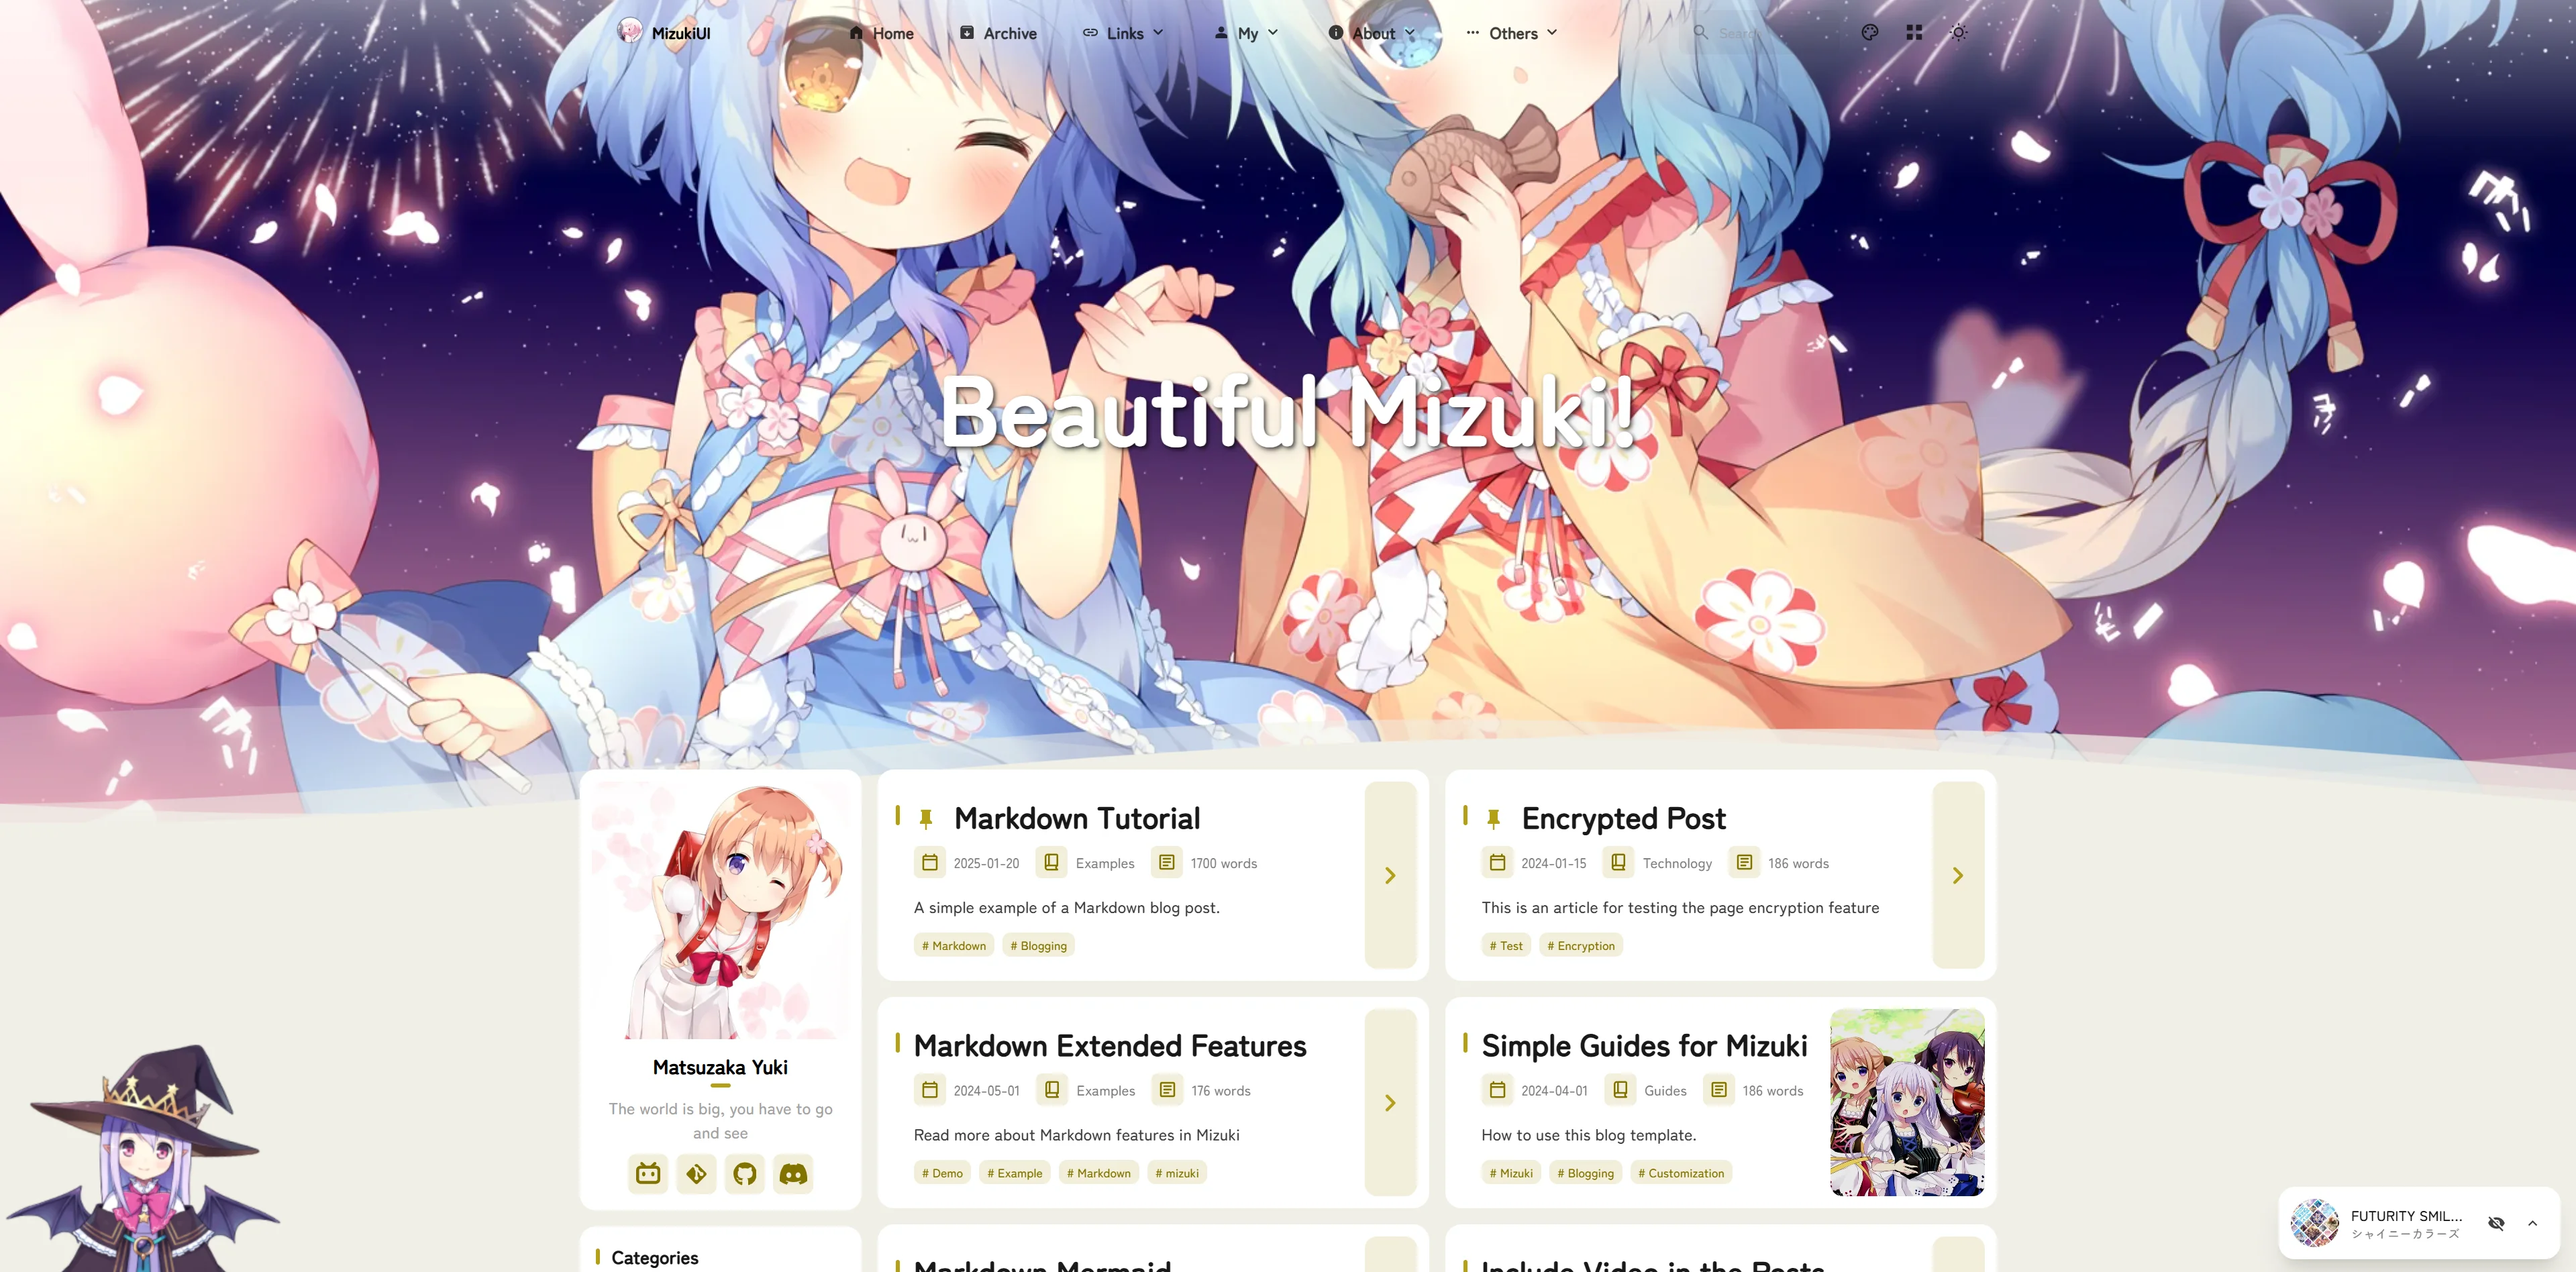
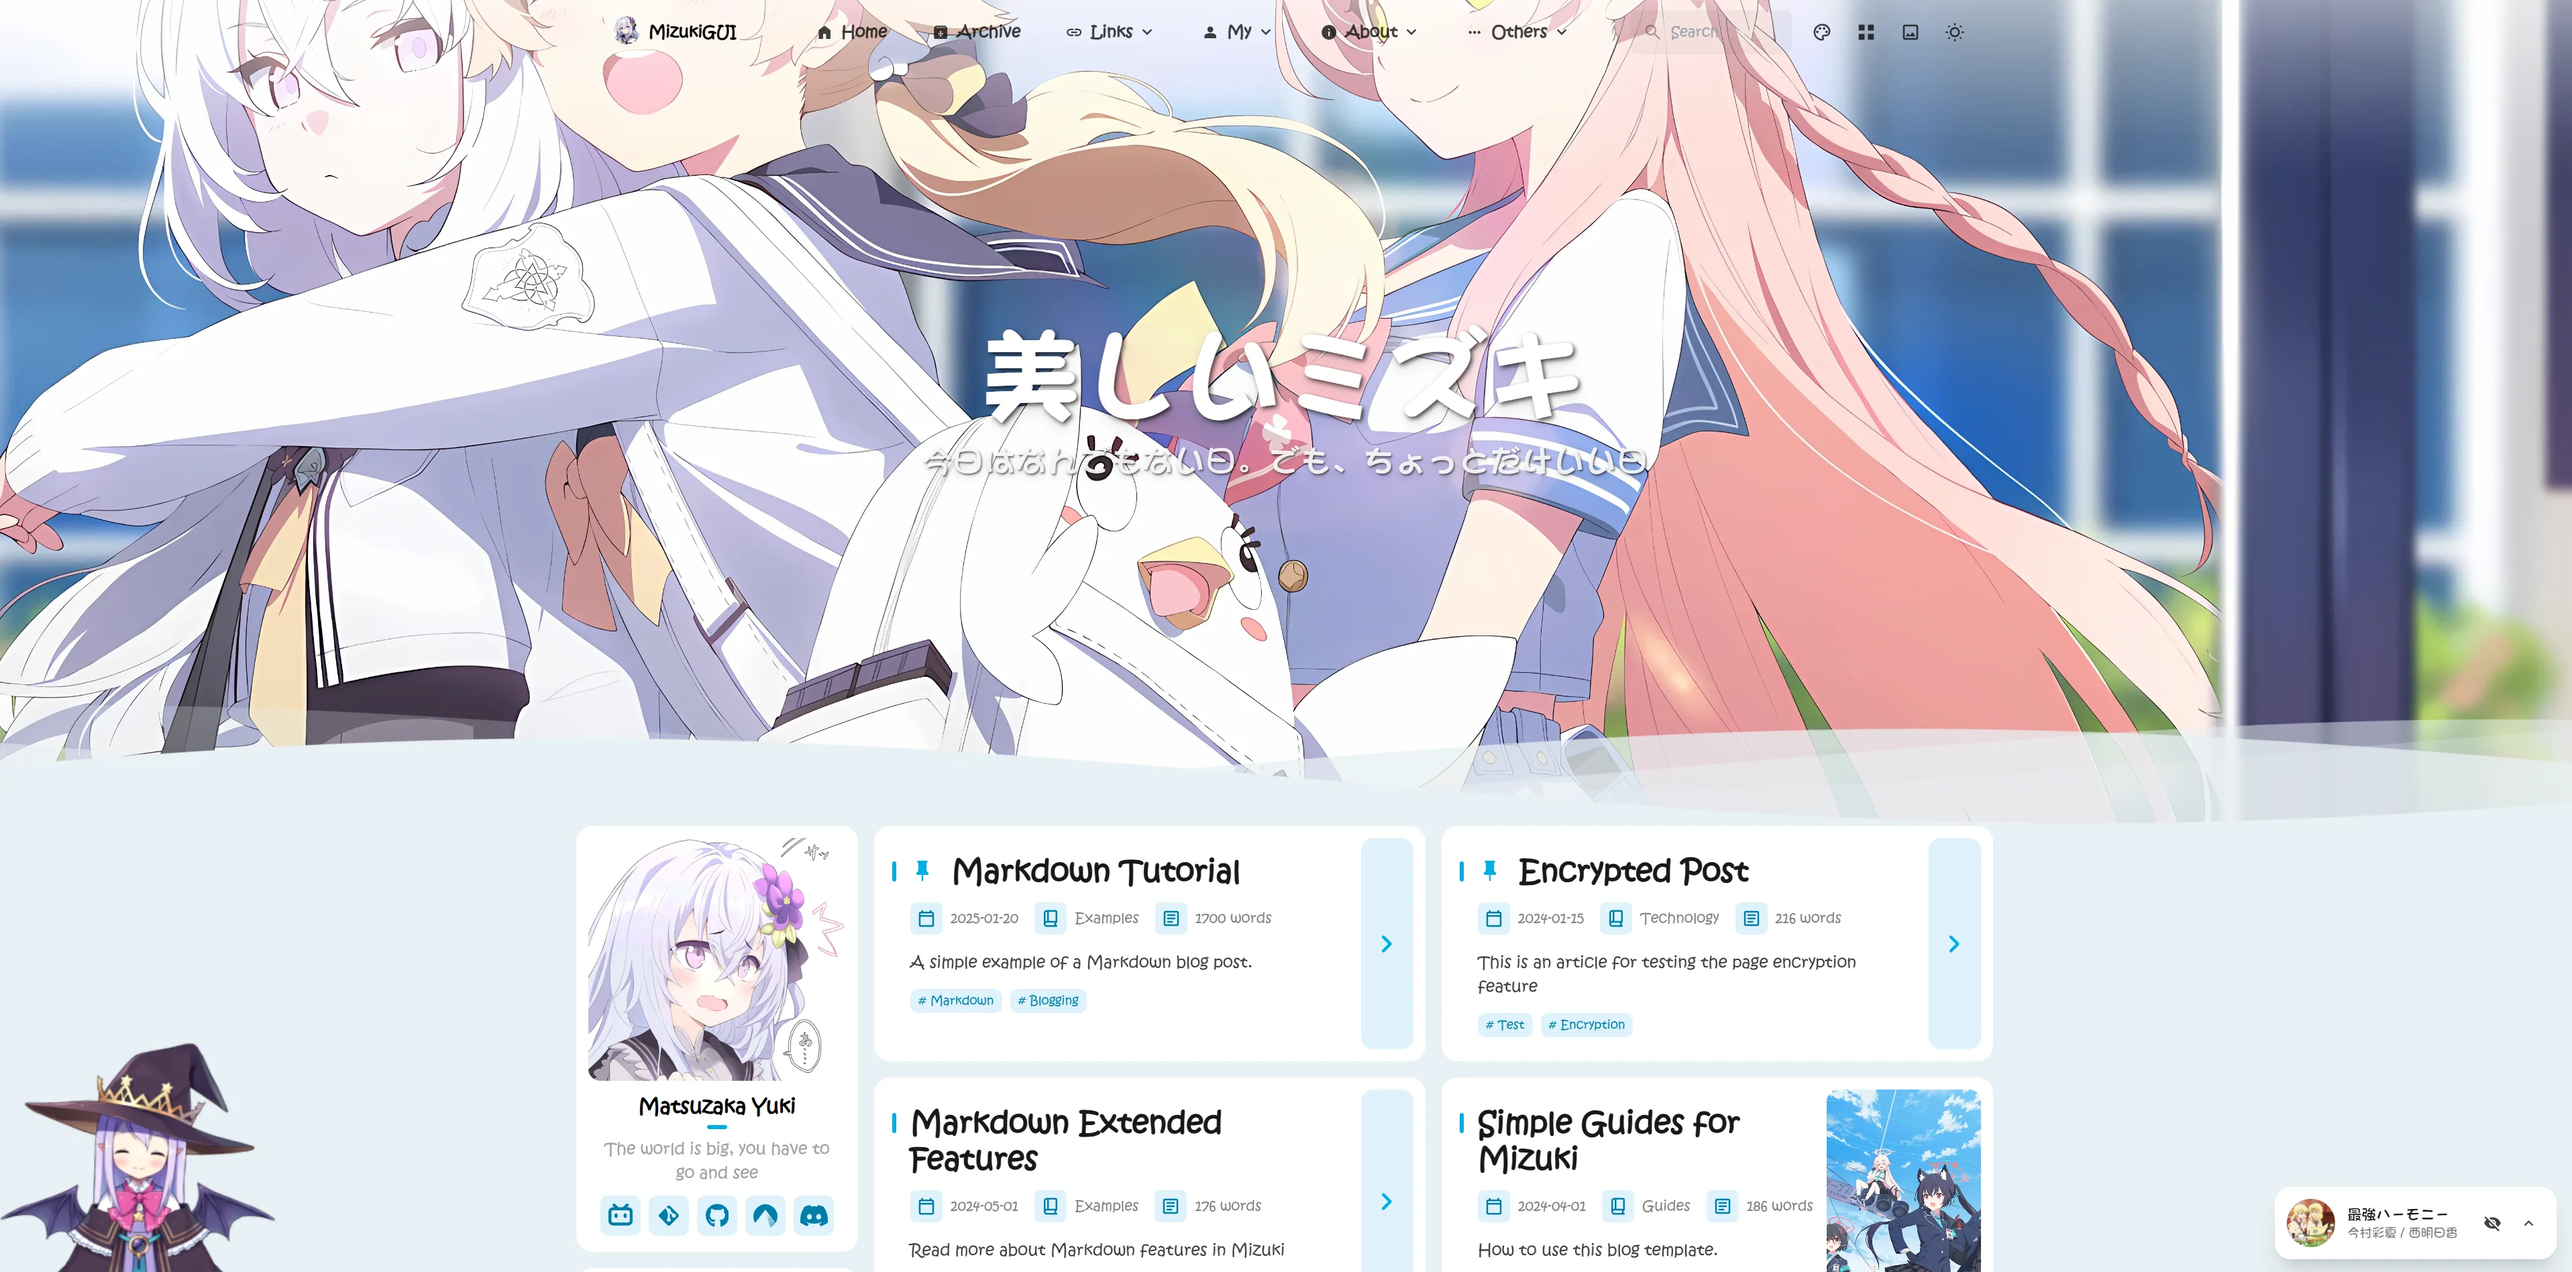
修复了一些设计bug

diff --git a/src/config.ts b/src/config.ts
@@ -18,18 +18,18 @@ import { LinkPreset } from "./types/config";
 
 // 定义站点语言
 const SITE_LANG = "en"; // 语言代码，例如：'en', 'zh_CN', 'ja' 等。
-const SITE_TIMEZONE =8;//设置你的网站时区 from -12 to 12 default in UTC+8
+const SITE_TIMEZONE = 8; //设置你的网站时区 from -12 to 12 default in UTC+8
 export const siteConfig: SiteConfig = {
 	title: "Mizuki",
 	subtitle: "One demo website",
 	siteURL: "https://mizuki.mysqil.com/", // 请替换为你的站点URL，以斜杠结尾
 
 	timeZone: SITE_TIMEZONE,
-	
+
 	lang: SITE_LANG,
 
 	themeColor: {
-		hue: 35, // 主题色的默认色相，范围从 0 到 360。例如：红色：0，青色：200，蓝绿色：250，粉色：345
+		hue: 230, // 主题色的默认色相，范围从 0 到 360。例如：红色：0，青色：200，蓝绿色：250，粉色：345
 		fixed: false, // 对访问者隐藏主题色选择器
 	},
 
@@ -47,7 +47,7 @@ export const siteConfig: SiteConfig = {
 	// 顶栏标题配置
 	navbarTitle: {
 		// 顶栏标题文本
-		text: "MizukiUI",
+		text: "MizukiGUI",
 		// 顶栏标题图标路径，默认使用 public/assets/home/home.png
 		icon: "assets/home/home.png",
 	},
@@ -90,24 +90,16 @@ export const siteConfig: SiteConfig = {
 		// 支持单张图片或图片数组，当数组长度 > 1 时自动启用轮播
 		src: {
 			desktop: [
-				"/assets/desktop-banner/d1.webp",
-				"/assets/desktop-banner/d2.webp",
-				"/assets/desktop-banner/d3.webp",
-				"/assets/desktop-banner/d4.webp",
-				"/assets/desktop-banner/d5.webp",
-				"/assets/desktop-banner/d6.webp",
-				"/assets/desktop-banner/d7.webp",
-				"/assets/desktop-banner/d8.webp",
+				"/assets/desktop-banner/1.webp",
+				"/assets/desktop-banner/2.webp",
+				"/assets/desktop-banner/3.webp",
+				"/assets/desktop-banner/4.webp",
 			], // 桌面横幅图片
 			mobile: [
-				"/assets/mobile-banner/m1.webp",
-				"/assets/mobile-banner/m2.webp",
-				"/assets/mobile-banner/m3.webp",
-				"/assets/mobile-banner/m4.webp",
-				"/assets/mobile-banner/m5.webp",
-				"/assets/mobile-banner/m6.webp",
-				"/assets/mobile-banner/m7.webp",
-				"/assets/mobile-banner/m8.webp",
+				"/assets/mobile-banner/1.webp",
+				"/assets/mobile-banner/2.webp",
+				"/assets/mobile-banner/3.webp",
+				"/assets/mobile-banner/4.webp",
 			], // 移动横幅图片
 		}, // 使用本地横幅图片
 
@@ -136,13 +128,14 @@ export const siteConfig: SiteConfig = {
 
 		homeText: {
 			enable: true, // 在主页显示自定义文本
-			title: "Beautiful Mizuki!", // 主页横幅主标题
+			title: "美しいミズキ", // 主页横幅主标题
 
 			subtitle: [
-				"A Showcase Demo Site",
-				"Carousel Highlight: Innovation",
-				"Carousel Focus: User Experience",
-				"Carousel Spot: Core Advantages",
+				"特別なことはないけど、君がいると十分です",
+				"今でもあなたは私の光",
+				"君ってさ、知らないうちに私の毎日になってたよ",
+				"君と話すと、なんか毎日がちょっと楽しくなるんだ",
+				"今日はなんでもない日。でも、ちょっとだけいい日",
 			],
 			typewriter: {
 				enable: true, // 启用副标题打字机效果
@@ -181,10 +174,10 @@ export const siteConfig: SiteConfig = {
 	// 字体配置
 	font: {
 		zenMaruGothic: {
-			enable: true, // 启用全局圆体适合日语和英语，对中文适配一般
+			enable: false, // 启用全局圆体适合日语和英语，对中文适配一般
 		},
 		hanalei: {
-			enable: false, // 启用 Hanalei 字体作为全局字体，适合中文去使用
+			enable: true, // 启用 Hanalei 字体作为全局字体，适合中文去使用
 		},
 	},
 	showLastModified: true, // 控制“上次编辑”卡片显示的开关
@@ -192,30 +185,22 @@ export const siteConfig: SiteConfig = {
 export const fullscreenWallpaperConfig: FullscreenWallpaperConfig = {
 	src: {
 		desktop: [
-			"/assets/desktop-banner/d1.webp",
-			"/assets/desktop-banner/d2.webp",
-			"/assets/desktop-banner/d3.webp",
-			"/assets/desktop-banner/d4.webp",
-			"/assets/desktop-banner/d5.webp",
-			"/assets/desktop-banner/d6.webp",
-			"/assets/desktop-banner/d7.webp",
-			"/assets/desktop-banner/d8.webp",
+			"/assets/desktop-banner/1.webp",
+			"/assets/desktop-banner/2.webp",
+			"/assets/desktop-banner/3.webp",
+			"/assets/desktop-banner/4.webp",
 		], // 桌面横幅图片
 		mobile: [
-			"/assets/mobile-banner/m1.webp",
-			"/assets/mobile-banner/m2.webp",
-			"/assets/mobile-banner/m3.webp",
-			"/assets/mobile-banner/m4.webp",
-			"/assets/mobile-banner/m5.webp",
-			"/assets/mobile-banner/m6.webp",
-			"/assets/mobile-banner/m7.webp",
-			"/assets/mobile-banner/m8.webp",
+			"/assets/mobile-banner/1.webp",
+			"/assets/mobile-banner/2.webp",
+			"/assets/mobile-banner/3.webp",
+			"/assets/mobile-banner/4.webp",
 		], // 移动横幅图片
 	}, // 使用本地横幅图片
 	position: "center", // 壁纸位置，等同于 object-position
 	carousel: {
 		enable: true, // 启用轮播
-		interval: 1, // 轮播间隔时间（秒）
+		interval: 5, // 轮播间隔时间（秒）
 	},
 	zIndex: -1, // 层级，确保壁纸在背景层
 	opacity: 0.8, // 壁纸透明度

diff --git a/src/styles/mobile-post-list-fix.css b/src/styles/mobile-post-list-fix.css
@@ -74,7 +74,10 @@ body.wallpaper-transparent .card-base,
 .wallpaper-transparent .card-base,
 body.wallpaper-transparent #post-list-container .card-base,
 body.wallpaper-transparent #post-list-container > * .card-base,
-body.wallpaper-transparent .post-card-item .card-base {
+body.wallpaper-transparent .post-card-item .card-base,
+/* 确保嵌套的卡片元素在全屏壁纸模式下也应用半透明效果 */
+body.wallpaper-transparent .card-base .card-base,
+.wallpaper-transparent .card-base .card-base {
   background: var(--card-bg-transparent) !important;
   background-color: var(--card-bg-transparent) !important;
   backdrop-filter: blur(8px) !important;
@@ -86,7 +89,10 @@ body.wallpaper-transparent .post-card-item .card-base {
 :root.dark .wallpaper-transparent .card-base,
 :root.dark body.wallpaper-transparent #post-list-container .card-base,
 :root.dark body.wallpaper-transparent #post-list-container > * .card-base,
-:root.dark body.wallpaper-transparent .post-card-item .card-base {
+:root.dark body.wallpaper-transparent .post-card-item .card-base,
+/* 确保嵌套的卡片元素在全屏壁纸模式下也应用半透明效果 */
+:root.dark body.wallpaper-transparent .card-base .card-base,
+:root.dark .wallpaper-transparent .card-base .card-base {
   background: var(--card-bg-transparent) !important;
   background-color: var(--card-bg-transparent) !important;
   backdrop-filter: blur(8px) !important;

diff --git a/src/styles/main.css b/src/styles/main.css
@@ -149,6 +149,14 @@ html {
         -webkit-backdrop-filter: blur(8px) !important;
     }
     
+    /* 确保嵌套的卡片元素在全屏壁纸模式下也应用半透明效果 */
+    .wallpaper-transparent .card-base .card-base,
+    body.wallpaper-transparent .card-base .card-base {
+        background: var(--card-bg-transparent) !important;
+        backdrop-filter: blur(8px) !important;
+        -webkit-backdrop-filter: blur(8px) !important;
+    }
+    
     .wallpaper-transparent .float-panel {
         @apply bg-[var(--card-bg-transparent)] backdrop-blur-sm;
     }

diff --git a/README.ja.md b/README.ja.md
@@ -32,6 +32,14 @@
 [**中文繁体**](./README.tw.md) /
 
 
+## 🆕 v6.5 アップデート
+- **コードブロック折りたたみ機能**: コードブロックの折りたたみをサポートし、コードの読書体験を改善しました。
+- **リポジトリ分離**: コードリポジトリとコンテンツリポジトリの分離モードをサポートし、コンテンツの更新をより便利にしました。
+- **新しいフロントエンドレイアウト管理**: 全く新しいフロントエンドレイアウト管理システムを実装し、より良いコントロールを提供します。
+- **ウェブサイトURL設定**: config.tsにウェブサイトURL設定を追加し、管理を容易にしました。
+- **レイアウト切り替え機能**: フロントエンドレイアウト切り替え機能を追加し、より柔軟な表示オプションを提供します。
+- **パフォーマンスとバグ修正**: ウェブサイトのパフォーマンスを最適化し、様々なバグを修正し、ユーザーエクスペリエンスを向上させました。
+
 ## 🆕 v6.0 アップデート
 - **ページリファクタリング**: アニメ、タイムライン、プロジェクト、スキル、アルバム、フレンドリンク、日記、アバウトページを完全にリファクタリングし、パフォーマンスとユーザーエクスペリエンスを向上させました。
 - **ページ切り替え機能**: ページ切り替え機能とSEO最適化モジュールを追加し、機能ページの表示/非表示を制御できるようになりました。

diff --git a/README.md b/README.md
@@ -32,6 +32,14 @@ A modern, feature-rich static blog template built with [Astro](https://astro.bui
 [**日本語**](./docs/README.ja.md) /
 [**中文繁体**](./docs/README.tw.md) /
 
+## 🆕 v6.5 Update
+- **Code Block Collapsible**: Added support for collapsible code blocks, improving code reading experience.
+- **Repository Separation**: Added support for separating code repository and content repository, making content updates more convenient.
+- **New Frontend Layout Management**: Implemented a brand new frontend layout management system for better control.
+- **Website URL Configuration**: Added website URL configuration to config.ts for easier management.
+- **Layout Switching Feature**: Added frontend layout switching functionality for more flexible display options.
+- **Performance and Bug Fixes**: Optimized website performance and fixed various bugs for better user experience.
+
 ## 🆕 v6.0 Update
 - **Page Refactoring**: Completely refactored anime, timeline, projects, skills, albums, friends, diary, and about pages for better performance and user experience.
 - **Page Toggle Feature**: Added page toggle functionality with SEO optimization modules, allowing control over feature page visibility.

diff --git a/README.zh.md b/README.zh.md
@@ -31,6 +31,14 @@
 [**日本語**](./docs/README.ja.md) /
 [**中文繁体**](./docs/README.tw.md) /
 
+## 🆕 v6.5 版本更新
+- **代码块折叠功能**：代码块支持折叠了，改善代码阅读体验。
+- **代码仓库与内容仓库分离**：支持代码仓库和内容仓库的分离模式，更方便更新内容。
+- **全新的前端布局管理**：实现了全新的前端布局管理系统，提供更好的控制。
+- **网站地址配置**：网站地址配置加入到config.ts，便于管理。
+- **前端布局切换功能**：添加前端布局切换功能，提供更灵活的显示选项。
+- **性能优化和Bug修复**：优化网站性能并修复各种Bug，提升用户体验。
+
 ## 🆕 v6.0 版本更新
 - **页面重构**：完全重构了番剧、时间线、项目、技能、相册、友情链接、日记、关于页面，提升性能和用户体验。
 - **页面开关功能**：添加了页面关闭功能和SEO优化模块，可以控制特色页面的显示与隐藏。

diff --git a/README.tw.md b/README.tw.md
@@ -32,6 +32,14 @@
 [**中文繁体**](./README.tw.md) /
 
 
+## 🆕 v6.5 版本更新
+- **程式碼區塊折疊功能**：程式碼區塊支援折疊，改善程式碼閱讀體驗。
+- **程式碼倉庫與內容倉庫分離**：支援程式碼倉庫和內容倉庫的分離模式，更方便更新內容。
+- **全新的前端佈局管理**：實現了全新的前端佈局管理系統，提供更好的控制。
+- **網站地址設定**：網站地址設定加入到config.ts，便於管理。
+- **前端佈局切換功能**：添加前端佈局切換功能，提供更靈活的顯示選項。
+- **效能優化和Bug修復**：優化網站效能並修復各種Bug，提升使用者體驗。
+
 ## 🆕 v6.0 版本更新
 - **頁面重構**：完全重構了番劇、時間線、項目、技能、相冊、友情連結、日記、關於頁面，提升性能和用戶體驗。
 - **頁面開關功能**：添加了頁面開關功能和SEO優化模組，可以控制特色頁面的顯示與隱藏。

diff --git a/src/content/posts/guide/index.md b/src/content/posts/guide/index.md
@@ -2,7 +2,7 @@
 title: Simple Guides for Mizuki
 published: 2024-04-01
 description: "How to use this blog template."
-image: "./cover.jpeg"
+image: "./cover.png"
 tags: ["Mizuki", "Blogging", "Customization"]
 category: Guides
 draft: false
